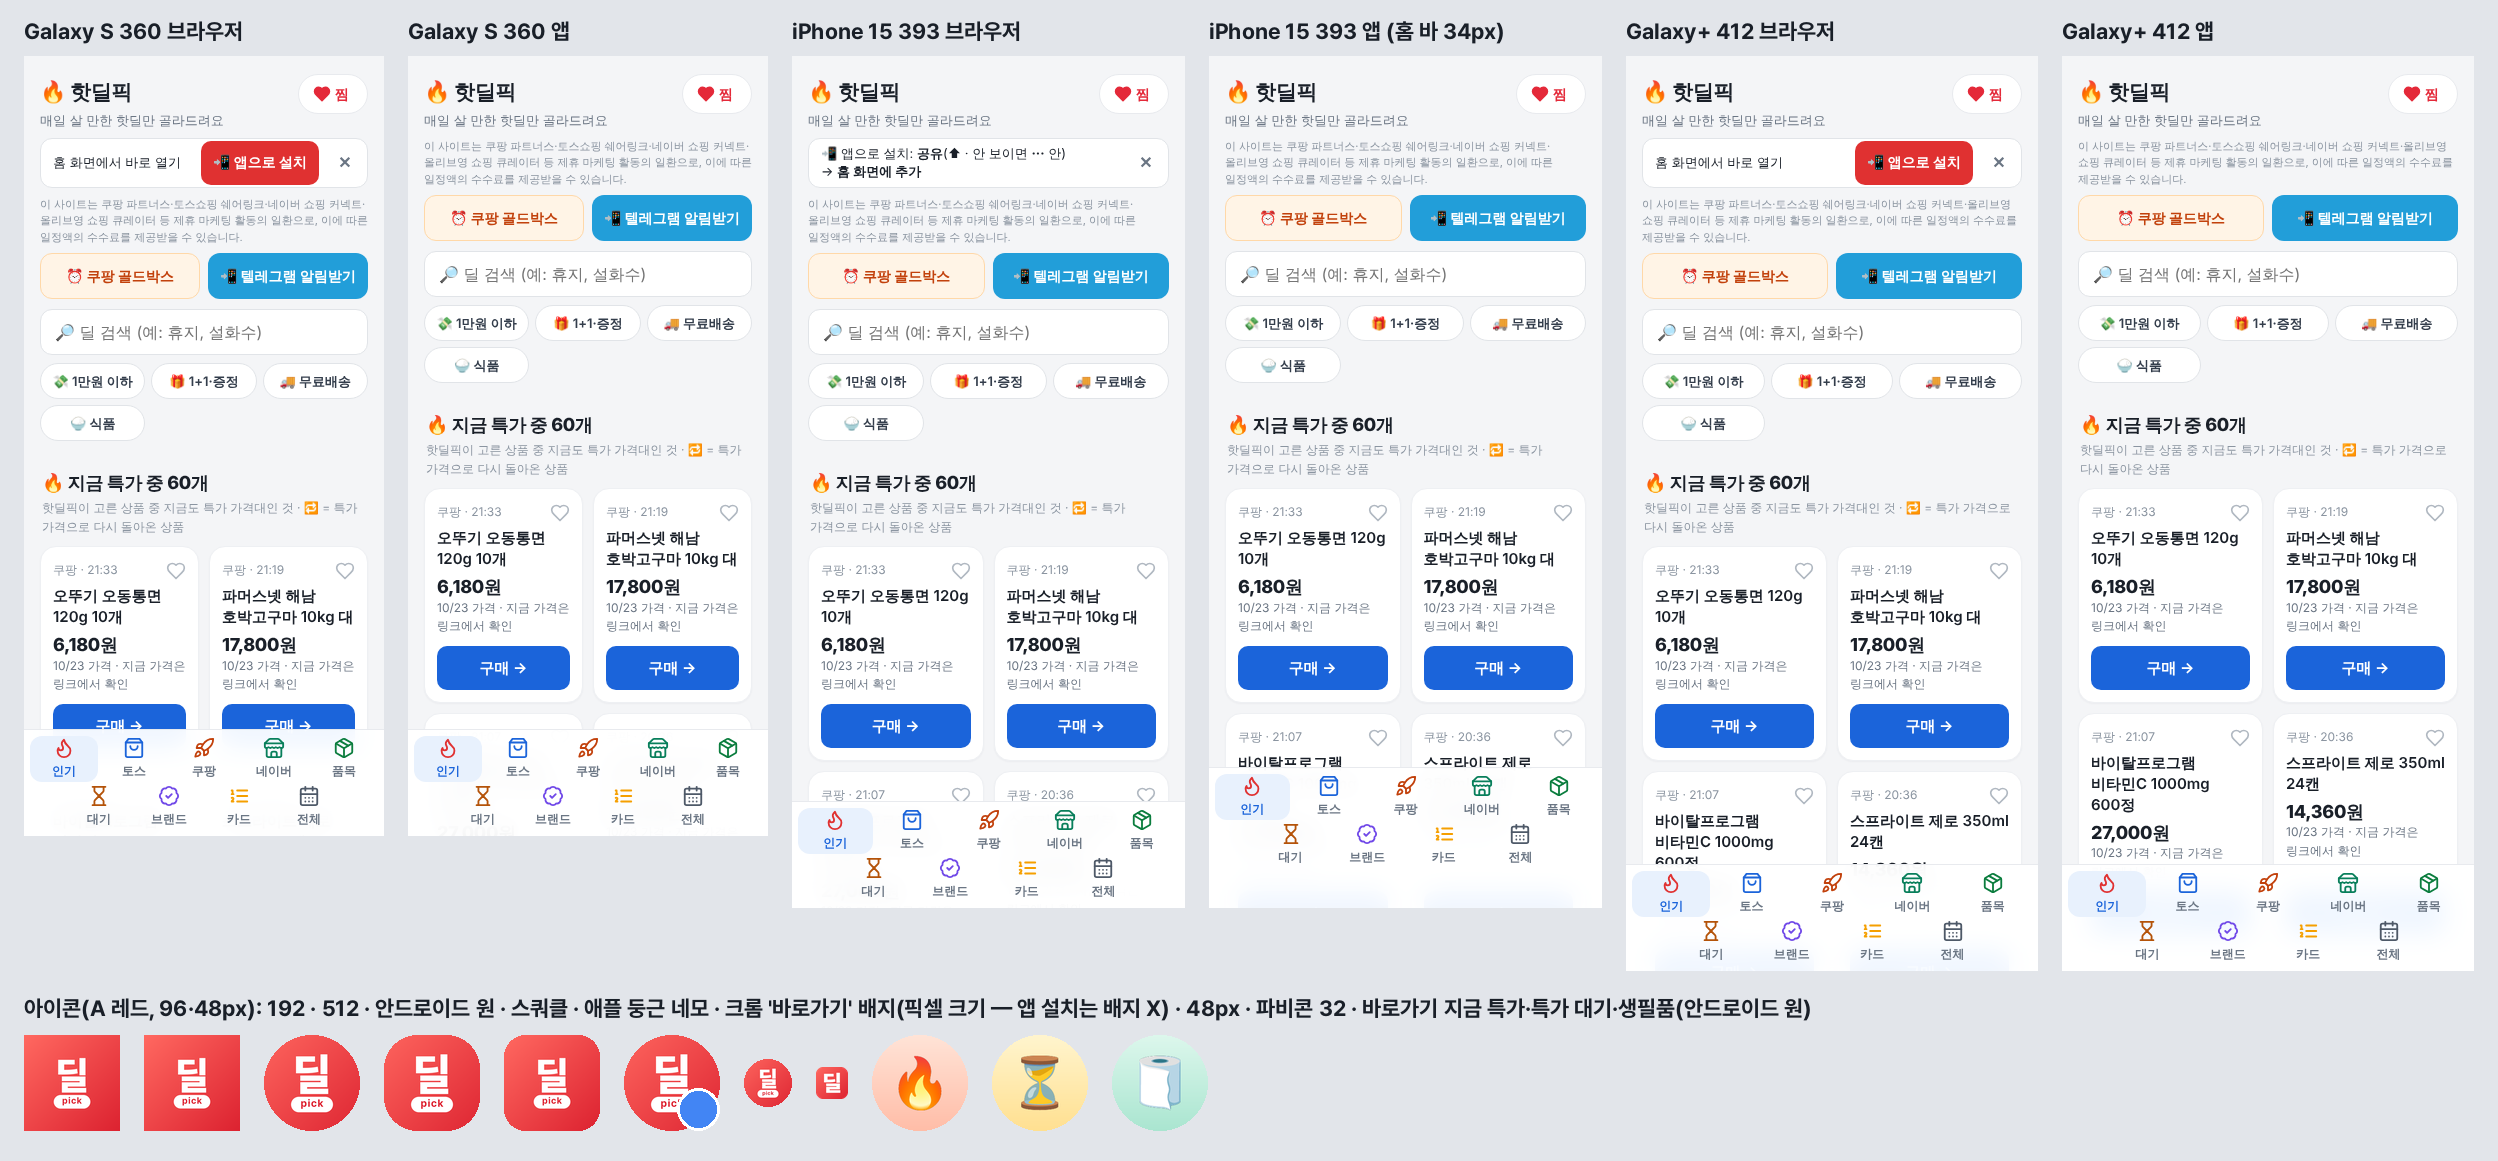
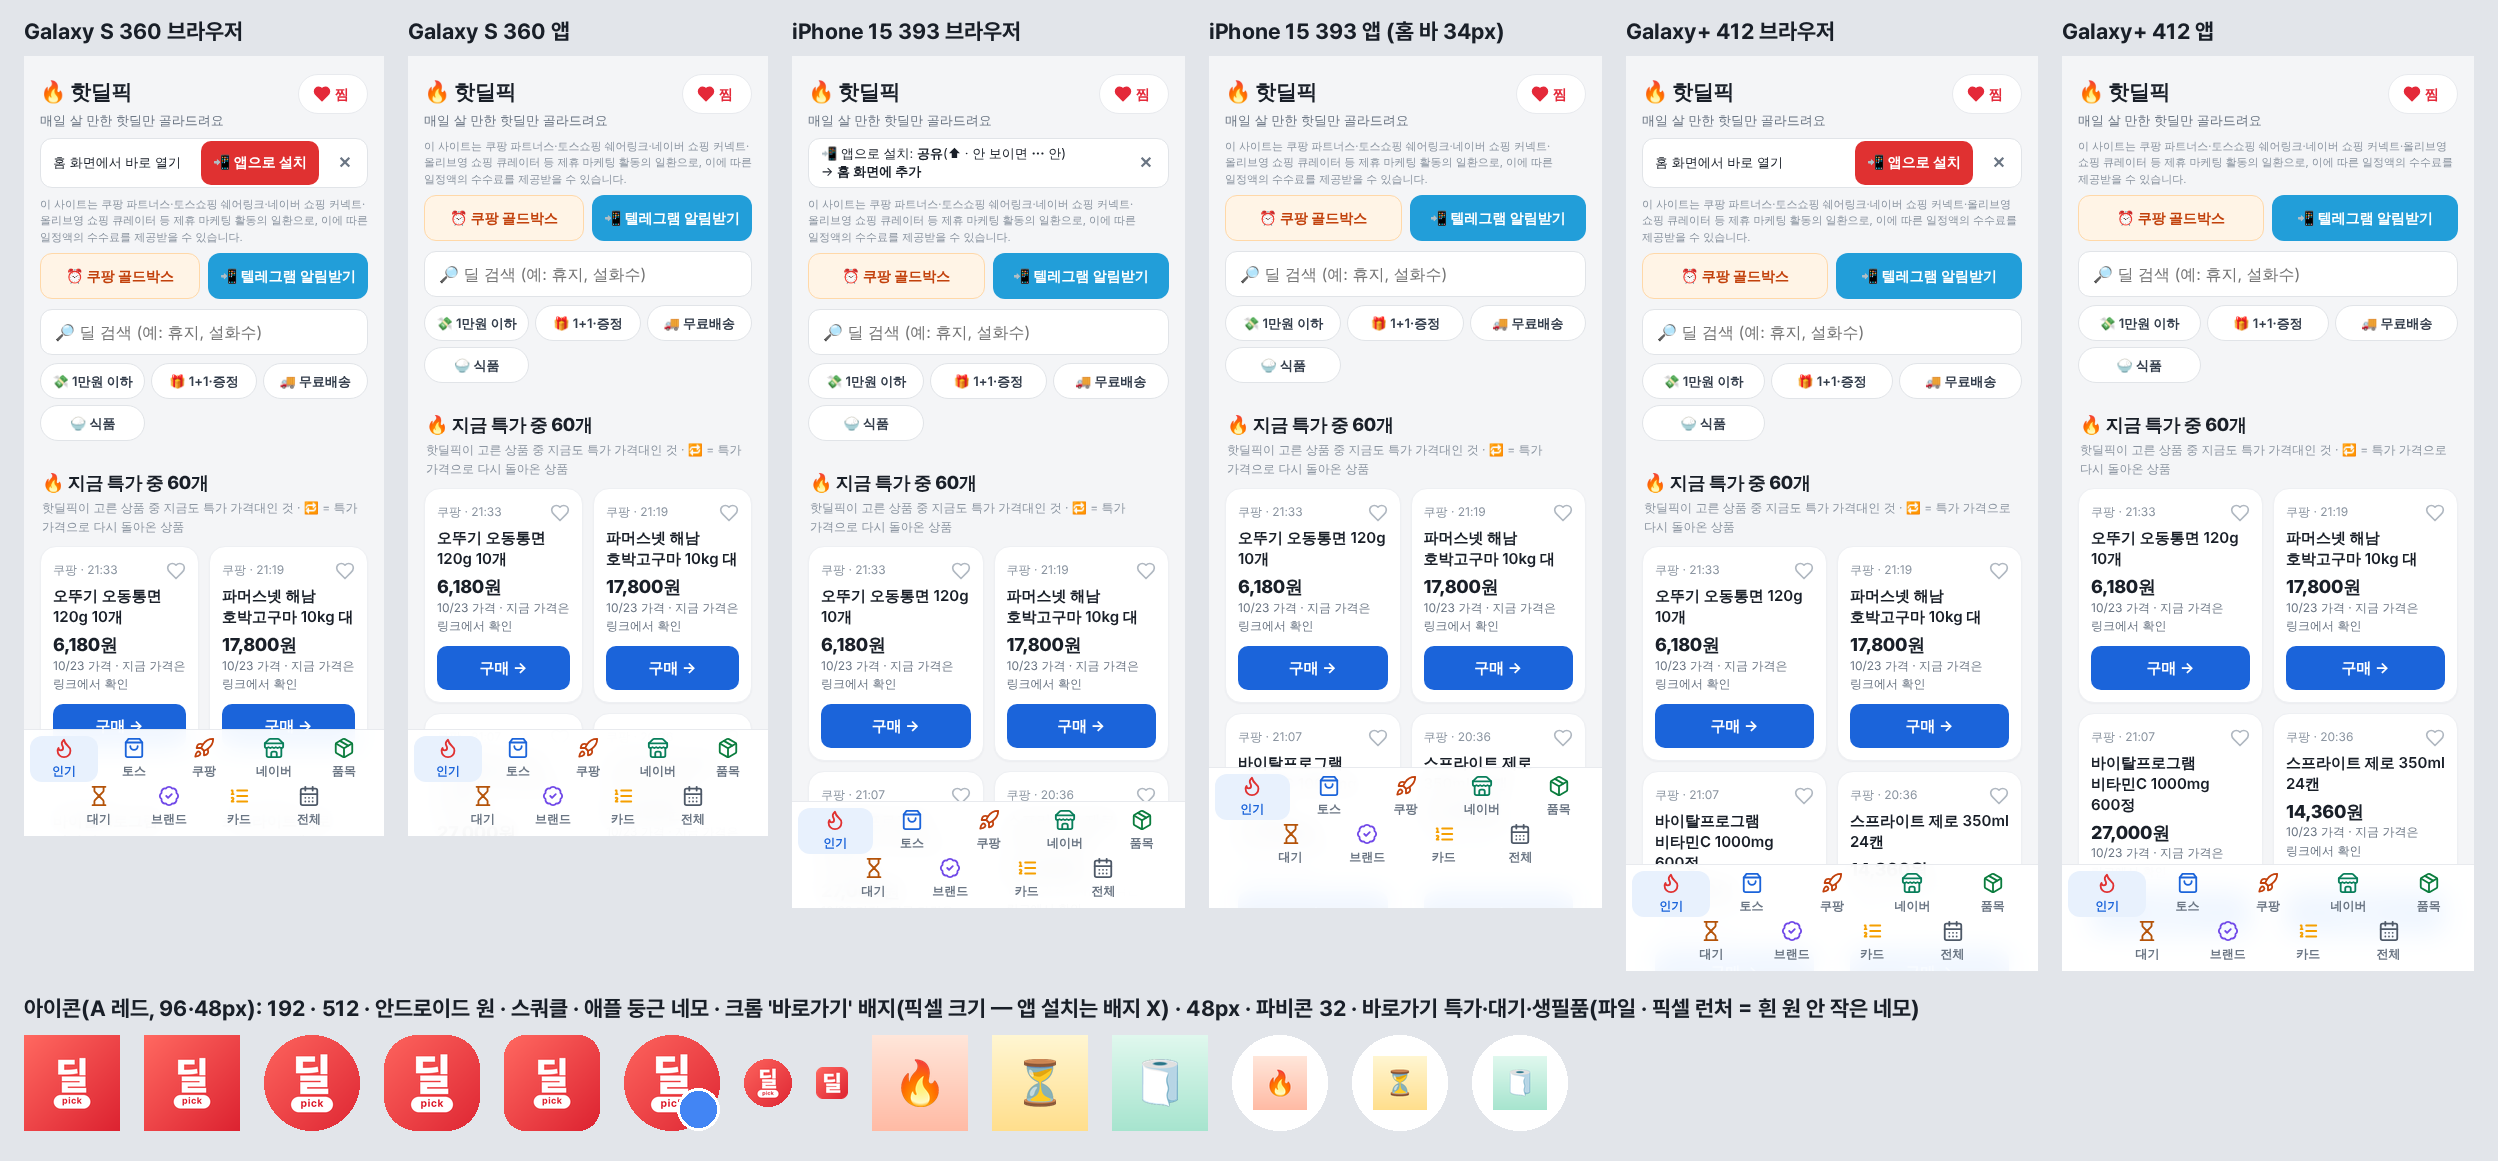
바로가기 아이콘 리뷰: 크롬은 바로가기에 any만 씀 → maskable 항목 뺌 · 미리보기 = 픽셀 런처 모양(흰 원 안 작은 네모) · 🛒 대체 하나만 바뀌어도 걸림
Claude-Session: https://claude.ai/code/session_0166LncLSude1PVe4eEqmcYn

Changed region(s): [[0.3435, 0.8372, 0.7494, 0.9922]]

diff --git a/test_pwa.js b/test_pwa.js
@@ -183,15 +183,18 @@ def mask(im, kind, r=.22):
 def phone(n, k=96):  # 안드로이드가 보여 주는 부분: 크롬이 maskable 안전 영역(80%)을 66/108에 맞추고 런처는 가운데 72/108만 -> 원본 0.0636~0.9364
     im = Image.open(icons + "/" + n).convert("RGBA"); a, b = round(im.width * .0636), round(im.width * .9364)
     return im.crop((a, a, b, b)).resize((k, k), Image.LANCZOS)
+def legacy(n, k=96):  # 바로가기 아이콘 = 크롬이 'any' 비트맵 그대로 -> 픽셀(Launcher3)은 흰 원 위에 0.807×0.7 ≈ 0.565로 줄여 둠(안 깎음)
+    o = Image.new("RGBA", (k, k), (0, 0, 0, 0)); ImageDraw.Draw(o).ellipse((0, 0, k - 1, k - 1), fill=(255, 255, 255, 255)); s = round(k * .565)
+    o.paste(Image.open(icons + "/" + n).convert("RGBA").resize((s, s), Image.LANCZOS), ((k - s) // 2, (k - s) // 2)); return o
 def badge(im):  # 크롬 '바로가기' 배지 = 픽셀(Launcher3) 아이콘 오른쪽 아래 0.444(ICON_BADGE_SCALE)
     im = im.copy(); dd = ImageDraw.Draw(im); w = im.width; s = round(w * .444)
     dd.ellipse((w - s, w - s, w - 1, w - 1), fill=(255, 255, 255, 255)); dd.ellipse((w - s + 3, w - s + 3, w - 4, w - 4), fill=(66, 133, 244, 255)); return im
 y = top + max(i.height for i in ims) + 24
-d.text((G, y), "아이콘(A 레드, 96·48px): 192 · 512 · 안드로이드 원 · 스쿼클 · 애플 둥근 네모 · 크롬 '바로가기' 배지(픽셀 크기 — 앱 설치는 배지 X) · 48px · 파비콘 32 · 바로가기 지금 특가·특가 대기·생필품(안드로이드 원)", font=f, fill=(25, 31, 40))
+d.text((G, y), "아이콘(A 레드, 96·48px): 192 · 512 · 안드로이드 원 · 스쿼클 · 애플 둥근 네모 · 크롬 '바로가기' 배지(픽셀 크기 — 앱 설치는 배지 X) · 48px · 파비콘 32 · 바로가기 특가·대기·생필품(파일 · 픽셀 런처 = 흰 원 안 작은 네모)", font=f, fill=(25, 31, 40))
 z = lambda n, k=96: Image.open(icons + "/" + n).convert("RGBA").resize((k, k), Image.LANCZOS)
 ic = [z("icon-192.png"), z("icon-512.png"), mask(phone("icon-512-maskable.png"), "c"), mask(phone("icon-512-maskable.png"), "r", .35),
       mask(z("apple-touch-icon.png"), "r", .2237), badge(mask(phone("icon-512-maskable.png"), "c")), mask(phone("icon-512-maskable.png", 48), "c"),
-      Image.open(icons + "/favicon-32.png").convert("RGBA")] + [mask(phone(f"sc-{k}.png"), "c") for k in ("fire", "wait", "life")]
+      Image.open(icons + "/favicon-32.png").convert("RGBA")] + [z(f"sc-{k}-96.png") for k in ("fire", "wait", "life")] + [legacy(f"sc-{k}.png") for k in ("fire", "wait", "life")]
 x = G
 for im in ic: c.paste(im, (x, y + 40 + (96 - im.height) // 2), im); x += im.width + 24
 c.save(out, optimize=True)

diff --git a/docs/sw.js b/docs/sw.js
@@ -1,4 +1,4 @@
-var V='hdp-81b71c3321',PRE=['/','/icons/icon-192.png?v=2','/icons/icon-512.png?v=2','/icons/apple-touch-icon.png?v=2','/favicon.ico?v=2'];
+var V='hdp-cf97eb12d8',PRE=['/','/icons/icon-192.png?v=2','/icons/icon-512.png?v=2','/icons/apple-touch-icon.png?v=2','/favicon.ico?v=2'];
 self.addEventListener('install',function(e){e.waitUntil(caches.open(V).then(function(c){return c.addAll(PRE)}).then(function(){return self.skipWaiting()}))});
 self.addEventListener('activate',function(e){e.waitUntil(caches.keys().then(function(ks){return Promise.all(ks.filter(function(k){return k!==V}).map(function(k){return caches.delete(k)}))}).then(function(){return self.clients.claim()}))});
 self.addEventListener('fetch',function(e){var r=e.request,u=new URL(r.url);

diff --git a/test_hotdeal.py b/test_hotdeal.py
@@ -5290,8 +5290,8 @@ for f40 in (f"{d40}/icons/favicon-32.png", f"{d40}/icons/favicon-16.png"):
     i40 = I40.open(f40); n40 = i40.width
     assert i40.getpixel((0, 0))[3] == 0 and i40.getpixel((n40 // 2, n40 - 2))[3] == 255 and max(min(i40.getpixel((x, y))[:3]) for x in range(n40) for y in range(n40)) > 200, f40  # 둥근 네모(모서리 투명) + 흰 '딜'
 assert "/icons/icon-192.png?v=2" in sw40 and "/favicon.ico?v=2" in sw40 and all(i["src"].endswith("?v=2") for i in m40["icons"]) and 'href="/icons/apple-touch-icon.png?v=2"' in ix40  # 새 그림 = 새 주소(폰·SW가 새로 받음)
-# 바로가기 아이콘 'V1 파스텔 이모지'(10/24 진우): 🔥·⏳·🧻 각자 파일(192 any·maskable + 96, ?v=) · 위 -> 아래 파스텔 꽉 찬 정사각 · 이모지 가운데, 긴 변 = 0.5n(안전 영역 안)
-assert [[(i["src"], i["sizes"], i["purpose"]) for i in x["icons"]] for x in m40["shortcuts"]] == [[(f"/icons/sc-{k}-96.png{S40.SV}", "96x96", "any"), (f"/icons/sc-{k}.png{S40.SV}", "192x192", "any"), (f"/icons/sc-{k}.png{S40.SV}", "192x192", "maskable")] for k in ("fire", "wait", "life")]
+# 바로가기 아이콘 'V1 파스텔 이모지'(10/24 진우): 🔥·⏳·🧻 각자 파일(96·192 any — 크롬은 바로가기에 any만 씀, ?v=) · 위 -> 아래 파스텔 꽉 찬 정사각 · 이모지 가운데, 긴 변 = 0.5n
+assert [[(i["src"], i["sizes"], i["purpose"]) for i in x["icons"]] for x in m40["shortcuts"]] == [[(f"/icons/sc-{k}-96.png{S40.SV}", "96x96", "any"), (f"/icons/sc-{k}.png{S40.SV}", "192x192", "any")] for k in ("fire", "wait", "life")]
 assert S40.SV.startswith("?v=") and [x["url"] for x in m40["shortcuts"]] == ["/#fire", "/#wait", "/#life"] and [C40.SC_ICONS[k][0] for k in ("fire", "wait", "life")] == ["🔥", "⏳", "🧻"]
 sc40 = {}
 for k40, (e40, t40, b40) in C40.SC_ICONS.items():
@@ -5304,7 +5304,7 @@ for k40, (e40, t40, b40) in C40.SC_ICONS.items():
         assert abs(max(bx40[2] - bx40[0], bx40[3] - bx40[1]) - 0.5) < 0.03 and abs((bx40[0] + bx40[2]) / 2 - 0.5) < 0.02 and abs((bx40[1] + bx40[3]) / 2 - 0.5) < 0.02, (k40, n40, bx40)  # 긴 변 50%, 가운데
         assert all((x + 0.5 - c40) ** 2 + (y + 0.5 - c40) ** 2 <= (0.4 * n40) ** 2 for x, y in em40), (k40, n40)  # 원·둥근 네모로 깎아도 안 잘림
         sc40[k40, n40] = round(bx40[2] - bx40[0], 2)
-assert len({v for (k, n), v in sc40.items() if n == 192}) == 3, sc40  # 셋 다 다른 이모지(폭 🔥 0.40·⏳ 0.34·🧻 0.38 — 못 그려 🛒로 바뀌면 같아짐)
+assert len({v for (k, n), v in sc40.items() if n == 192}) == 3 and all(v < 0.45 for v in sc40.values()), sc40  # 셋 다 다른 이모지(폭 🔥 0.40·⏳ 0.34·🧻 0.38 — 못 그려 🛒(0.49)로 바뀌면 걸림)
 assert set(I40.open(f"{d40}/favicon.ico").info["sizes"]) == {(16, 16), (32, 32), (48, 48)}
 # 9-41) 쿠팡 파트너스 API(10/23 최종 승인 — 진우가 키를 Secrets에 넣기 전 준비): 키 없으면 아무것도 안 바뀜 ·
 #       ① events·관리자 쿠팡 상품 주소 -> 딥링크(cp_links.json, events.json 그대로, 진우 단축 링크 그대로, coupa.ng도 대가성 문구) ② pid 하루 1번 검색 API -> seen cpq -> own_end

diff --git a/build_site.py b/build_site.py
@@ -133,8 +133,7 @@ MANIFEST = {"id": "/", "name": "핫딜픽 — 매일 살 만한 핫딜", "short_
             "icons": [{"src": f"/icons/icon-192.png{IV}", "sizes": "192x192", "type": "image/png", "purpose": "any"}, {"src": f"/icons/icon-512.png{IV}", "sizes": "512x512", "type": "image/png", "purpose": "any"},
                       {"src": f"/icons/icon-512-maskable.png{IV}", "sizes": "512x512", "type": "image/png", "purpose": "maskable"}],
             "shortcuts": [{"name": n, "short_name": n[2:], "url": f"/#{k}", "icons": [{"src": f"/icons/sc-{k}-96.png{SV}", "sizes": "96x96", "type": "image/png", "purpose": "any"},
-                                                                             {"src": f"/icons/sc-{k}.png{SV}", "sizes": "192x192", "type": "image/png", "purpose": "any"},
-                                                                             {"src": f"/icons/sc-{k}.png{SV}", "sizes": "192x192", "type": "image/png", "purpose": "maskable"}]}
+                                                                             {"src": f"/icons/sc-{k}.png{SV}", "sizes": "192x192", "type": "image/png", "purpose": "any"}]}
                           for n, k in (("🔥 지금 특가", "fire"), ("⏳ 특가 대기", "wait"), ("🧻 생필품", "life"))]}  # 바로가기 아이콘 = cards.SC_ICONS(10/24 진우 'V1 파스텔 이모지')
 PWA_HEAD = (f'<link rel="manifest" href="/manifest.webmanifest"><link rel="icon" href="/favicon.ico{IV}" sizes="any"><link rel="icon" type="image/png" sizes="32x32" href="/icons/favicon-32.png{IV}">'
             f'<link rel="icon" type="image/png" sizes="16x16" href="/icons/favicon-16.png{IV}"><link rel="apple-touch-icon" href="/icons/apple-touch-icon.png{IV}">'

diff --git a/cards.py b/cards.py
@@ -803,7 +803,8 @@ SC_ICONS = {"fire": ("🔥", (255, 230, 218), (255, 186, 164)), "wait": ("⏳", 
 
 
 def sc_icon(ch, top, bottom, n):
-    """웹앱 바로가기(아이콘 길게 누르기 메뉴) 아이콘 n×n: 위 -> 아래 파스텔 그라데이션 꽉 찬 정사각(런처가 깎음) + 가운데 컬러 이모지(긴 변 = 0.5n — maskable 안전 영역 안)."""
+    """웹앱 바로가기(아이콘 길게 누르기 메뉴) 아이콘 n×n: 위 -> 아래 파스텔 그라데이션 꽉 찬 정사각 + 가운데 컬러 이모지(긴 변 = 0.5n).
+    shortcut: 크롬은 바로가기에 'any' 아이콘만 그대로(비트맵) 넘김 -> 픽셀 런처는 안 깎고 흰 원 안에 약 0.56로 줄여 둠(이모지 ≈ 원의 28%) — 더 크게는 진우 결정."""
     im = Image.composite(Image.new("RGB", (n, n), bottom), Image.new("RGB", (n, n), top), Image.linear_gradient("L").resize((n, n), Image.BILINEAR))
     e = emoji(ch, n // 2)
     im.paste(e, ((n - e.width) // 2, (n - e.height) // 2), e)
